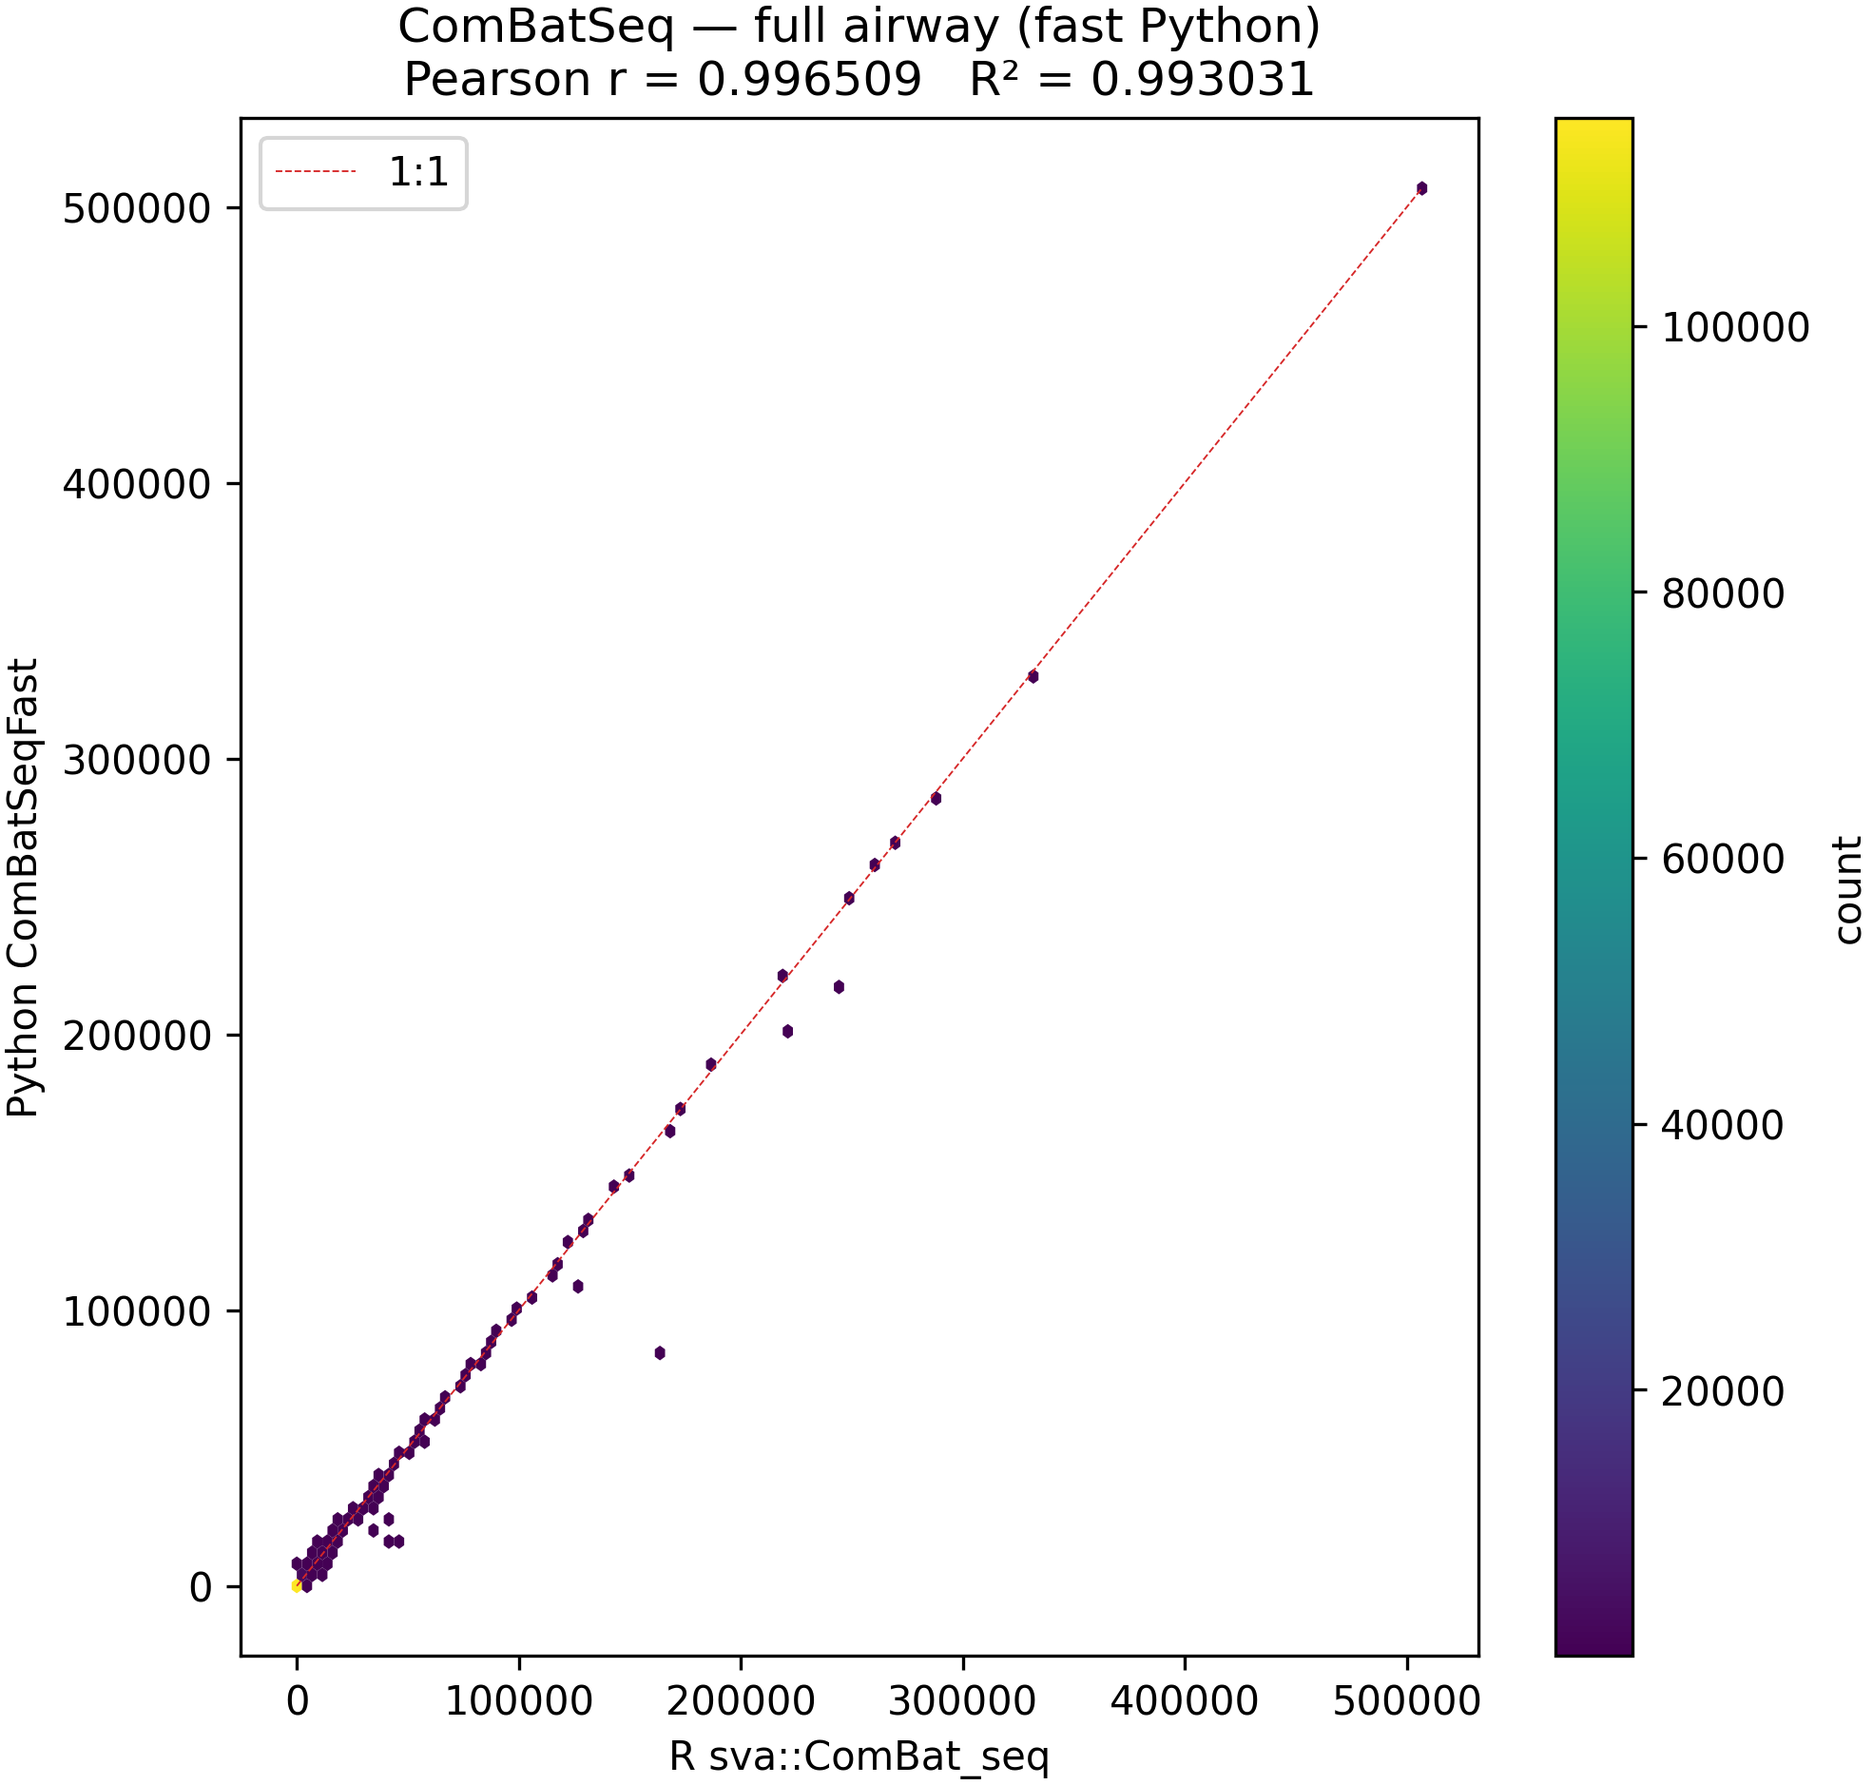
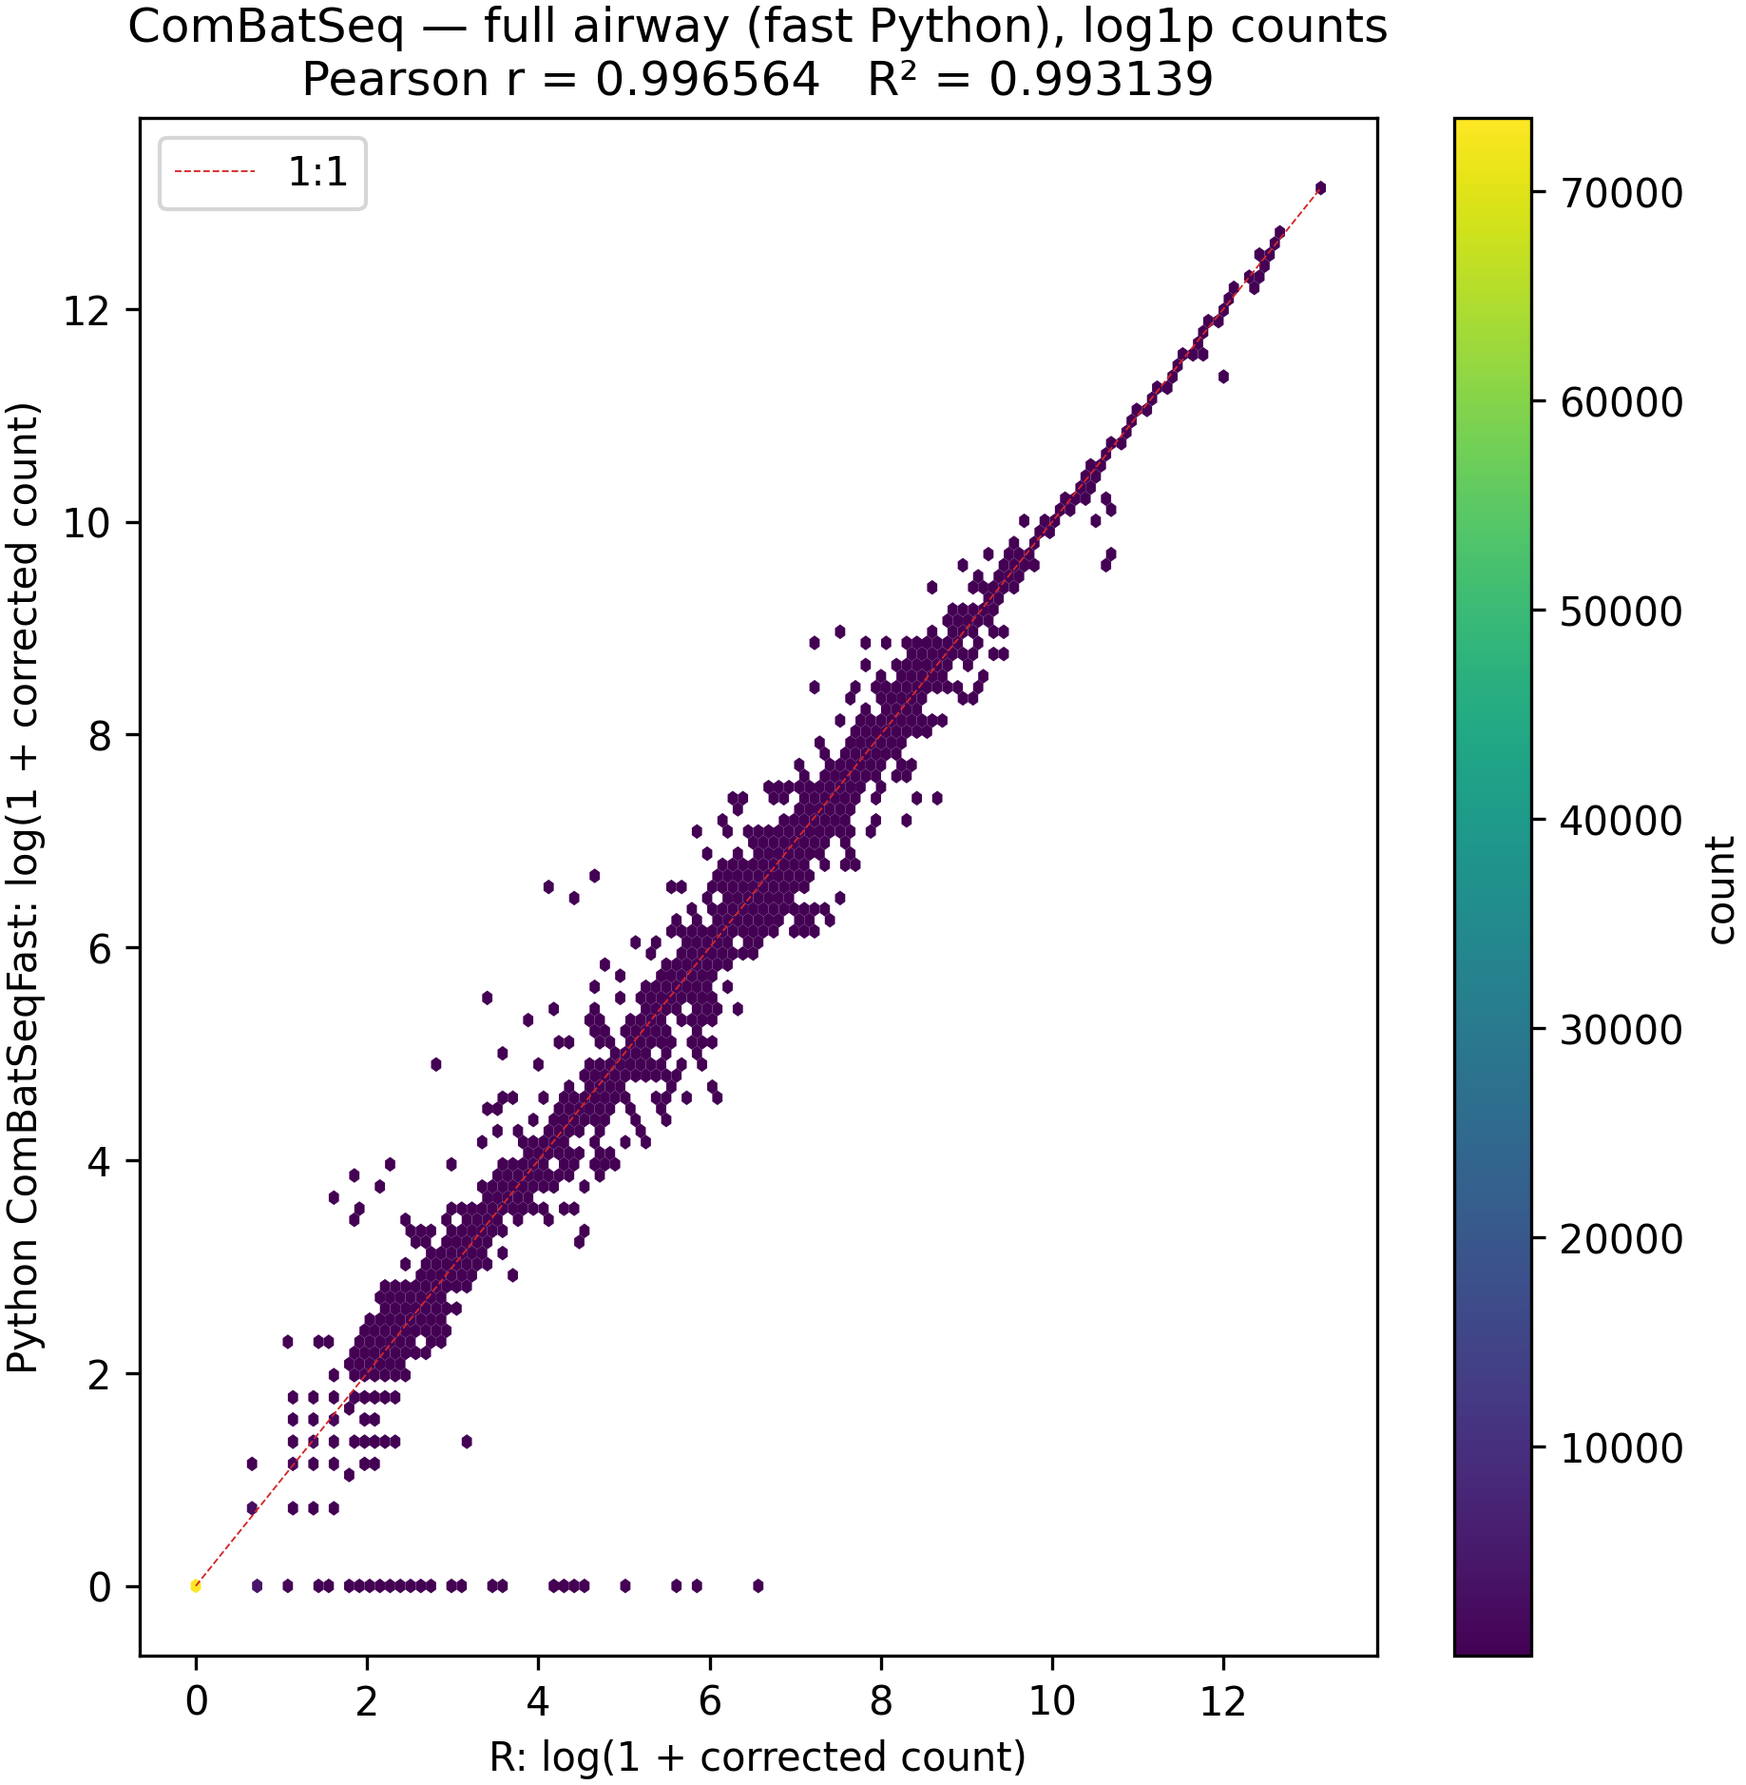
ComBat-seq parity: use log1p for r/R², hexbins, and e2e tests
Apply log(1 + corrected count) for all ComBat-seq Pearson correlations and
parity plots so low counts do not dominate density. Update the application
note, regenerated airway hexbin figures, parity notebook helpers, and e2e
assertions to match.

Made-with: Cursor

diff --git a/tests/test_combat_e2e.py b/tests/test_combat_e2e.py
@@ -13,8 +13,8 @@ the benchmark references will be out of sync.
 
 ComBat:    asserts near-exact numerical parity (rtol=1e-5) against sva::ComBat,
            using the bladderbatch microarray dataset.
-ComBatSeq: asserts Pearson r > 0.95 against sva::ComBat_seq on the 20K-gene
-           airway subset (standard and fast variants).
+ComBatSeq: asserts Pearson r > 0.95 on log1p(corrected counts) against
+           sva::ComBat_seq on the 20K-gene airway subset (standard and fast variants).
 Slow tests (full 64K airway) are marked @pytest.mark.slow and skipped by default.
 """
 
@@ -29,6 +29,11 @@ from md_combat.combat_seq import ComBatSeq, ComBatSeqFast
 from md_combat.datasets import load_airway, load_bladderbatch
 
 EXPECTED_DIR = Path(__file__).parent / "expected"
+
+
+def _log1p_ravel(counts: np.ndarray) -> np.ndarray:
+    """log(1 + x) on corrected counts; stabilises Pearson r at low counts vs raw scale."""
+    return np.log1p(np.asarray(counts, dtype=float).ravel())
 
 
 def _load_parquet(name: str) -> pd.DataFrame:
@@ -119,7 +124,8 @@ def test_combat_seq_output_is_nonneg_integers(simulated_seq_data):
 
 def test_combat_seq_python_vs_r_correlation(simulated_seq_data):
     """
-    Python ComBatSeq output should correlate strongly with R sva::ComBat_seq.
+    Python ComBatSeq output should correlate strongly with R sva::ComBat_seq
+    on log1p(corrected counts).
 
     Exact numerical parity is not expected: R uses edgeR's GLM solver while
     Python uses statsmodels NegativeBinomial.
@@ -128,9 +134,10 @@ def test_combat_seq_python_vs_r_correlation(simulated_seq_data):
     py_result = ComBatSeq().fit_transform(counts_df, batch, group=group)
 
     corr = np.corrcoef(
-        py_result.values.ravel().astype(float), r_out_df.values.ravel().astype(float)
+        _log1p_ravel(py_result.values),
+        _log1p_ravel(r_out_df.values),
     )[0, 1]
-    assert corr > 0.95, f"Python vs R ComBat_seq Pearson correlation too low: r={corr:.4f}"
+    assert corr > 0.95, f"Python vs R ComBat_seq Pearson r (log1p) too low: r={corr:.4f}"
 
 
 def test_combat_seq_fast_vs_standard_on_simulated_data(simulated_seq_data):
@@ -147,14 +154,14 @@ def test_combat_seq_fast_vs_standard_on_simulated_data(simulated_seq_data):
     diff = np.abs(std_result.values - fast_result.values)
     exact_match_pct = (diff == 0).mean() * 100
     corr = np.corrcoef(
-        std_result.values.ravel().astype(float),
-        fast_result.values.ravel().astype(float),
+        _log1p_ravel(std_result.values),
+        _log1p_ravel(fast_result.values),
     )[0, 1]
 
     assert exact_match_pct >= 85, (
         f"Only {exact_match_pct:.1f}% of counts match exactly between ComBatSeq and ComBatSeqFast"
     )
-    assert corr > 0.999, f"Pearson r between ComBatSeq and ComBatSeqFast too low: r={corr:.4f}"
+    assert corr > 0.999, f"Pearson r (log1p) between ComBatSeq and ComBatSeqFast too low: r={corr:.4f}"
 
 
 # ---------------------------------------------------------------------------
@@ -190,11 +197,11 @@ def test_combat_seq_airway_20k_fast_vs_r_correlation(airway_20k_data):
     py_result = ComBatSeqFast().fit_transform(counts_20k, batch, group=group)
 
     corr = np.corrcoef(
-        py_result.values.ravel().astype(float),
-        r_out_df.values.ravel().astype(float),
+        _log1p_ravel(py_result.values),
+        _log1p_ravel(r_out_df.values),
     )[0, 1]
     assert corr > 0.95, (
-        f"ComBatSeqFast vs R on airway 20K: Pearson r={corr:.4f} (expected > 0.95)"
+        f"ComBatSeqFast vs R on airway 20K: Pearson r (log1p)={corr:.4f} (expected > 0.95)"
     )
 
 
@@ -212,12 +219,12 @@ def test_combat_seq_airway_20k_fast_vs_standard(airway_20k_data):
     std_result = ComBatSeq().fit_transform(counts_20k, batch, group=group)
 
     corr = np.corrcoef(
-        fast_result.values.ravel().astype(float),
-        std_result.values.ravel().astype(float),
+        _log1p_ravel(fast_result.values),
+        _log1p_ravel(std_result.values),
     )[0, 1]
 
     assert corr > 0.99, (
-        f"Pearson r on 20K airway between Fast and Standard: r={corr:.4f}"
+        f"Pearson r (log1p) on 20K airway between Fast and Standard: r={corr:.4f}"
     )
 
 
@@ -257,11 +264,11 @@ def test_combat_seq_airway_uneven_fast_vs_r_correlation(airway_20k_uneven_data):
     py_result = ComBatSeqFast().fit_transform(counts_20k, uneven_batch, group=group)
 
     corr = np.corrcoef(
-        py_result.values.ravel().astype(float),
-        r_out_df.values.ravel().astype(float),
+        _log1p_ravel(py_result.values),
+        _log1p_ravel(r_out_df.values),
     )[0, 1]
     assert corr > 0.95, (
-        f"ComBatSeqFast vs R on airway 20K uneven batches: Pearson r={corr:.4f} (expected > 0.95)"
+        f"ComBatSeqFast vs R on airway 20K uneven batches: Pearson r (log1p)={corr:.4f} (expected > 0.95)"
     )
 
 
@@ -288,11 +295,11 @@ def test_combat_seq_airway_full_fast_vs_r_correlation(airway_full_data):
     py_result = ComBatSeqFast().fit_transform(counts_df, batch, group=group)
 
     corr = np.corrcoef(
-        py_result.values.ravel().astype(float),
-        r_out_df.values.ravel().astype(float),
+        _log1p_ravel(py_result.values),
+        _log1p_ravel(r_out_df.values),
     )[0, 1]
     assert corr > 0.95, (
-        f"ComBatSeqFast vs R on full airway: Pearson r={corr:.4f} (expected > 0.95)"
+        f"ComBatSeqFast vs R on full airway: Pearson r (log1p)={corr:.4f} (expected > 0.95)"
     )
 
 
@@ -307,9 +314,9 @@ def test_combat_seq_airway_full_fast_vs_standard(airway_full_data):
     std_result = ComBatSeq().fit_transform(counts_df, batch, group=group)
 
     corr = np.corrcoef(
-        fast_result.values.ravel().astype(float),
-        std_result.values.ravel().astype(float),
+        _log1p_ravel(fast_result.values),
+        _log1p_ravel(std_result.values),
     )[0, 1]
     assert corr > 0.99, (
-        f"Pearson r on full airway between Fast and Standard: r={corr:.4f}"
+        f"Pearson r (log1p) on full airway between Fast and Standard: r={corr:.4f}"
     )

diff --git a/docs/APP_NOTE_PYTHON_R_PARITY.md b/docs/APP_NOTE_PYTHON_R_PARITY.md
@@ -14,11 +14,11 @@
 
 **Background.** Batch effect correction is widely performed with the Bioconductor package *sva* (`ComBat`, `ComBat_seq`). A Python reimplementation, *md_combat*, is useful for Python-native pipelines and services.
 
-**Methods.** We compared *md_combat* to outputs of `sva::ComBat` and `sva::ComBat_seq` on the same bundled datasets used for package testing: the bladderbatch microarray study (22 283 probes × 57 samples) and the airway RNA-seq experiment (64 102 genes × 8 samples). R reference matrices were precomputed with `Rscript scripts/generate_expected.R` and stored as Parquet **benchmark reference** files under `tests/expected/`. Agreement was quantified by the maximum absolute element-wise difference (ComBat) or by Pearson correlation *r* and *R*² = *r*² on all aligned matrix elements after flattening (ComBat-seq). RNA-seq plots subsample up to 120 000 gene × sample pairs for visualization. Wall-clock time was measured for full-airway fits on one workstation.
+**Methods.** We compared *md_combat* to outputs of `sva::ComBat` and `sva::ComBat_seq` on the same bundled datasets used for package testing: the bladderbatch microarray study (22 283 probes × 57 samples) and the airway RNA-seq experiment (64 102 genes × 8 samples). R reference matrices were precomputed with `Rscript scripts/generate_expected.R` and stored as Parquet **benchmark reference** files under `tests/expected/`. Agreement was quantified by the maximum absolute element-wise difference (ComBat) or, for ComBat-seq, by Pearson *r* and *R*² = *r*² on **log(1 + corrected count)** for every aligned matrix element after flattening (the same transform is used for RNA-seq hexbin figures so density is not dominated by zeros and small counts). RNA-seq plots subsample up to 120 000 gene × sample pairs for visualization. Wall-clock time was measured for full-airway fits on one workstation.
 
-**Results.** ComBat: maximum |Python − R| = 6.22 × 10⁻¹⁵, *r* = 1.000000. ComBat-seq on full airway vs R benchmark reference: standard Python implementation *r* = 0.999995 (*R*² = 0.999990); vectorised Newton–Raphson implementation *r* = 0.996520 (*R*² = 0.993053). Standard vs fast Python: *r* = 0.996521. Standard ComBat-seq required 395.6 s (6.59 min); ComBatSeqFast required 1.9 s (~206× faster) on the same hardware.
+**Results.** ComBat: maximum |Python − R| = 6.22 × 10⁻¹⁵, *r* = 1.000000. ComBat-seq on full airway vs R benchmark reference on **log(1 + count)**: standard Python *r* = 0.996706 (*R*² = 0.993423); ComBatSeqFast *r* = 0.996538 (*R*² = 0.993088). Standard vs fast Python on log(1 + count): *r* = 0.999788. Standard ComBat-seq required 395.6 s (6.59 min); ComBatSeqFast required 1.9 s (~206× faster) on the same hardware.
 
-**Conclusion.** *md_combat* reproduces R ComBat at machine precision. ComBat-seq agrees with R at very high correlation on full airway; the fast solver trades a small correlation decrement for large speed gains. Figures and commands below support independent reproduction.
+**Conclusion.** *md_combat* reproduces R ComBat at machine precision. ComBat-seq agrees with R at high correlation on log-transformed corrected counts; the fast solver remains close to the standard path on that scale while offering large speed gains. Figures and commands below support independent reproduction.
 
 **Keywords:** batch effect; ComBat; ComBat-seq; sva; Python; reproducibility
 
@@ -51,7 +51,7 @@ Frozen R outputs were written with `scripts/generate_expected.R` to `tests/expec
 ### 2.4 Statistical summaries
 
 - **ComBat:** *D* = max<sub>*i*,*j*</sub> |*Y*<sup>Py</sup><sub>*ij*</sub> − *Y*<sup>R</sup><sub>*ij*</sub>|; Pearson *r* across all elements.
-- **ComBat-seq:** Pearson *r* and *R*² = *r*² between flattened, aligned vectors of corrected counts (Python vs R, or fast vs standard). Scatter displays use two-dimensional hexagonal binning with a diagonal reference (1:1 line).
+- **ComBat-seq:** Pearson *r* and *R*² = *r*² between flattened, aligned vectors of **log(1 + corrected count)** (Python vs R, or fast vs standard). Hexbin scatter displays use the same log(1 + *x*) values on both axes with a diagonal reference (1:1 line).
 
 ### 2.5 Compute environment (reporting run)
 
@@ -88,35 +88,35 @@ Figures were saved by the same notebook to `docs/figures/parity/` at 300 dpi (
 
 ### 3.2 ComBat-seq (airway, full gene set)
 
-**Table 2.** Pearson correlation and *R*² vs R benchmark reference (64 102 × 8), and wall time.
+**Table 2.** Pearson *r* and *R*² on **log(1 + corrected count)** vs R benchmark reference (64 102 × 8), and wall time.
 
 | Comparison | *r* | *R*² | Wall time (s) |
 |------------|-----|------|----------------|
-| Python ComBatSeq (standard) vs R | 0.999995 | 0.999990 | 395.6 |
-| Python ComBatSeqFast vs R | 0.996520 | 0.993053 | 1.9 |
-| ComBatSeqFast vs ComBatSeq (both Python) | 0.996521 | 0.993054 | — |
+| Python ComBatSeq (standard) vs R | 0.996706 | 0.993423 | 395.6 |
+| Python ComBatSeqFast vs R | 0.996538 | 0.993088 | 1.9 |
+| ComBatSeqFast vs ComBatSeq (both Python) | 0.999788 | 0.999577 | — |
 
 Speedup (standard / fast) ≈ **205.8×** on this run.
 
-**Figure 2.** R vs Python ComBat-seq (standard), full airway.
+**Figure 2.** R vs Python ComBat-seq (standard), full airway; axes are log(1 + corrected count).
 
-![Figure 2. ComBat-seq (standard Python) vs R benchmark reference, full airway.](./figures/parity/combatseq_airway_full_std_vs_r.png)
+![Figure 2. ComBat-seq (standard Python) vs R benchmark reference, full airway (log1p counts).](./figures/parity/combatseq_airway_full_std_vs_r.png)
 
-**Figure 3.** R vs Python ComBatSeqFast, full airway.
+**Figure 3.** R vs Python ComBatSeqFast, full airway; axes are log(1 + corrected count).
 
-![Figure 3. ComBat-seq (ComBatSeqFast) vs R benchmark reference, full airway.](./figures/parity/combatseq_airway_full_fast_vs_r.png)
+![Figure 3. ComBat-seq (ComBatSeqFast) vs R benchmark reference, full airway (log1p counts).](./figures/parity/combatseq_airway_full_fast_vs_r.png)
 
-**Figure 4.** Python standard vs Python fast, full airway.
+**Figure 4.** Python standard vs Python fast, full airway; axes are log(1 + corrected count).
 
-![Figure 4. ComBatSeq vs ComBatSeqFast (full airway).](./figures/parity/combatseq_airway_full_std_vs_fast.png)
+![Figure 4. ComBatSeq vs ComBatSeqFast (full airway, log1p counts).](./figures/parity/combatseq_airway_full_std_vs_fast.png)
 
 * * *
 
 ## 4. Discussion
 
-ComBat is a deterministic linear algebra and empirical-Bayes pipeline in double precision; agreement at ~10⁻¹⁵ is consistent with identical algorithms and floating-point order. ComBat-seq depends on negative binomial GLM fitting: R’s *sva* uses the *edgeR*-related machinery, while Python’s standard path uses *statsmodels* Nelder–Mead per gene. The standard Python implementation reached *r* ≈ 0.999995 vs R on full airway, indicating very close alignment of the corrected count surface. The fast Newton–Raphson implementation is not identical to Nelder–Mead and shows slightly lower *r* vs R but remains high (*r* ≈ 0.997) and matches the standard Python path at the same order (*r* ≈ 0.997). For large gene sets, **ComBatSeqFast** is the practical default; the standard implementation remains useful as a slower reference.
+ComBat is a deterministic linear algebra and empirical-Bayes pipeline in double precision; agreement at ~10⁻¹⁵ is consistent with identical algorithms and floating-point order. ComBat-seq depends on negative binomial GLM fitting: R’s *sva* uses the *edgeR*-related machinery, while Python’s standard path uses *statsmodels* Nelder–Mead per gene. **Pearson *r* on raw corrected counts** is very high for the standard path vs R because the values are near-integers with strong pointwise agreement; **on log(1 + count)** the standard and fast Python paths both correlate with R at a similar level (*r* ≈ 0.997 here), while the two Python implementations agree even more closely with each other (*r* ≈ 0.9998), which matches the interpretation that NM and NR mainly diverge in detail that is compressed on the log scale. For large gene sets, **ComBatSeqFast** is the practical default; the standard implementation remains useful as a slower reference.
 
-Limitations: R benchmark reference files depend on R/Bioconductor versions at generation time; correlation on a subsample for plotting can differ slightly from full-matrix *r* if subsampling is enabled; wall times are single-machine snapshots.
+Limitations: R benchmark reference files depend on R/Bioconductor versions at generation time; hexbin figures subsample points so the *r* shown in the figure title can differ slightly from the full-matrix *r* in Table 2; wall times are single-machine snapshots.
 
 * * *
 
